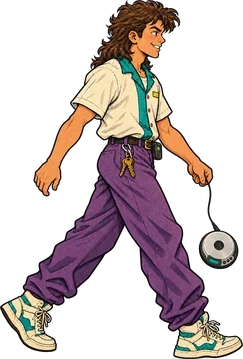
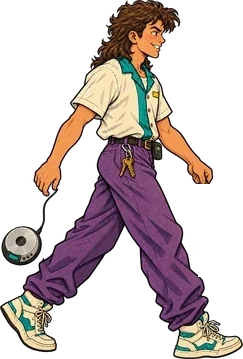
Dex keeps the CD player in his back hand all through the walk
walk2 had the player hanging from his front hand while the other four walk frames (and the standing
pose) have it in his back hand, so it jumped hands every other step. The cord and player are taken
off the front hand and walk1's cord and player hung from the back hand instead, behind his leg.
Gear masks and Dex's sprite sheet rebuilt. Art version 2026.11.04-3.

Claude-Session: https://claude.ai/code/session_01F6d7yiNU11ZJhcT1A4j6AT

diff --git a/index.html b/index.html
@@ -229,7 +229,7 @@ kbd{font-family:var(--pixel);font-size:9px;color:#1c0b07;background:var(--cream)
   </div>
 </div>
 
-<script src="art/manifest.js?v=2026.11.04-2"></script>
+<script src="art/manifest.js?v=2026.11.04-3"></script>
 <script src="game-core.js?v=2026.11.03-5"></script>
 <script>
 (()=>{
@@ -1380,7 +1380,7 @@ function update(){
 const ART=globalThis.LF_ART||{};
 const SPR={};
 // Bump ART_V whenever art files are replaced under the same names, so browsers fetch the new pictures.
-const ART_V='2026.11.04-2',AV=u=>u+'?v='+ART_V;
+const ART_V='2026.11.04-3',AV=u=>u+'?v='+ART_V;
 /* ---------- picture loading ----------
    Everything used to be requested at once, so on a phone the heroes could take seconds to appear while 400 files
    fought for the line, and a file that failed stayed on its drawn stand-in until a reload. Now pictures go through one
